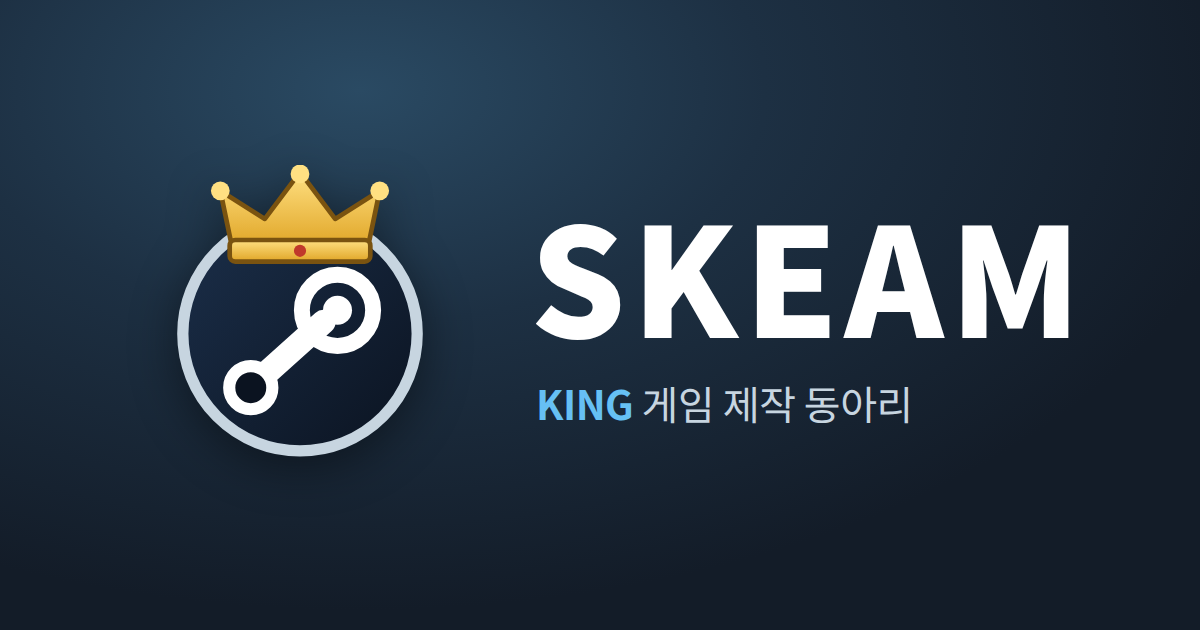
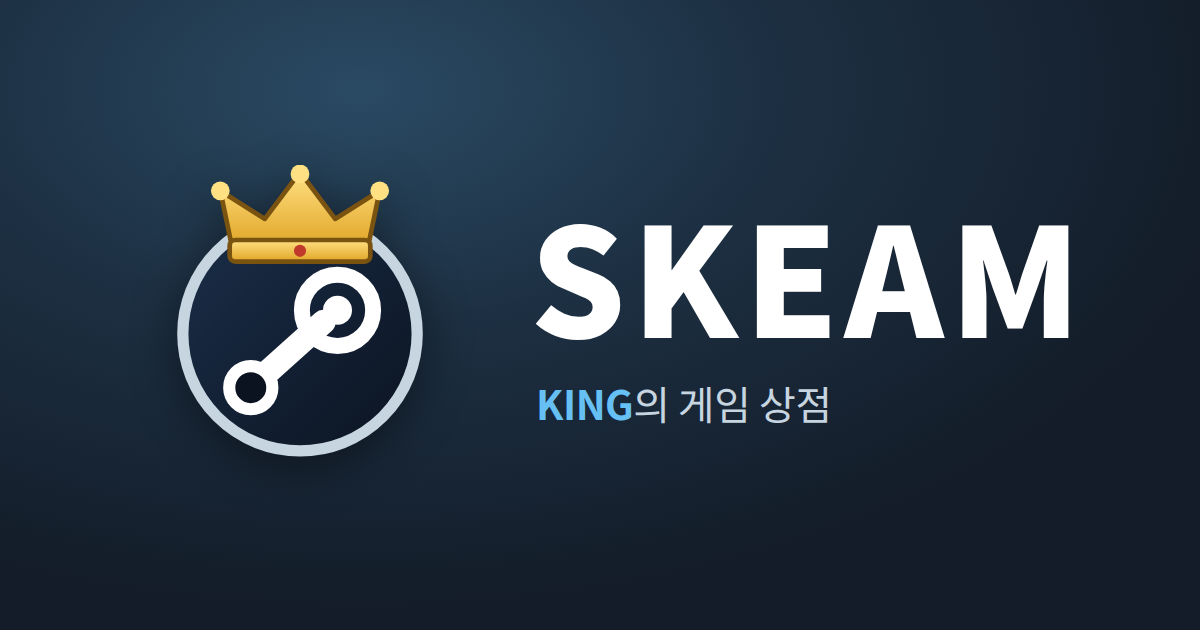
링크 카드와 사이트 설명: 'KING의 게임 상점'으로 통일
카톡·디스코드 카드 이미지(og.png)와 설명, 사이트 description, README 첫 줄에서
'게임 제작 동아리' 수식어를 빼고 'KING의 게임 상점'으로 맞춤. 새 그림을
다시 가져가도록 og:image를 ?v=3으로 올림.

Claude-Session: https://claude.ai/code/session_01DRcvd7MQ8veMn4GcWrnbmF

Changed region(s): [[0.5242, 0.6032, 0.7708, 0.6937]]

diff --git a/vite.config.ts b/vite.config.ts
@@ -17,14 +17,14 @@ function linkCard(): Plugin {
       }
       const meta = (property: string, content: string) => ({ tag: 'meta', attrs: { property, content }, injectTo: 'head' as const })
       return [
-        { tag: 'meta', attrs: { name: 'description', content: '게임 제작 동아리 KING의 게임 상점' }, injectTo: 'head' },
+        { tag: 'meta', attrs: { name: 'description', content: 'KING의 게임 상점' }, injectTo: 'head' },
         meta('og:type', 'website'),
         meta('og:site_name', 'SKEAM'),
         meta('og:title', 'SKEAM'),
-        meta('og:description', '게임 제작 동아리 KING의 게임 상점. 동아리 프로젝트부터 Steam 출시작까지 바로 플레이해 보세요'),
+        meta('og:description', 'KING의 게임 상점. 동아리 프로젝트부터 Steam 출시작까지 바로 플레이해 보세요'),
         meta('og:url', url),
         // ?v= makes KakaoTalk and Discord fetch the picture again when it changes.
-        meta('og:image', url + 'og.png?v=2'),
+        meta('og:image', url + 'og.png?v=3'),
         meta('og:image:width', '1200'),
         meta('og:image:height', '630'),
         { tag: 'meta', attrs: { name: 'twitter:card', content: 'summary_large_image' }, injectTo: 'head' },

diff --git a/README.md b/README.md
@@ -1,6 +1,6 @@
 # SKEAM
 
-게임 제작 동아리 KING의 게임을 모아 두는 스팀 패러디 상점. 동아리 프로젝트, Steam 출시작, AI로 빠르게 만든 게임까지 올릴 수 있음. 서버 없이 GitHub Pages에서 돌아가고, 돈은 전부 가짜임.
+KING의 게임 상점(스팀 패러디). 동아리 프로젝트, Steam 출시작, AI로 빠르게 만든 게임까지 올릴 수 있음. 서버 없이 GitHub Pages에서 돌아가고, 돈은 전부 가짜임.
 
 ## 게임 등록 (동아리원용)
 
